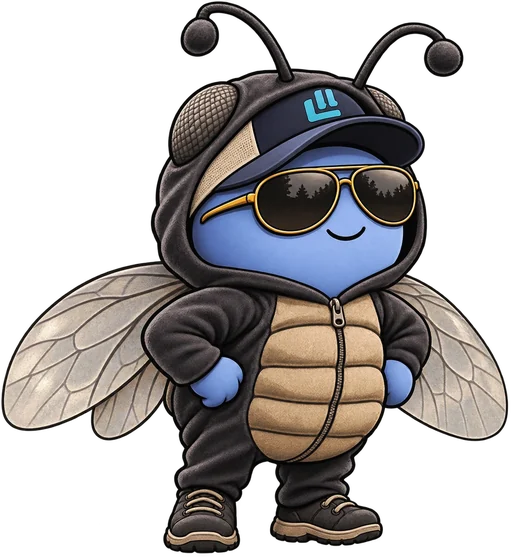
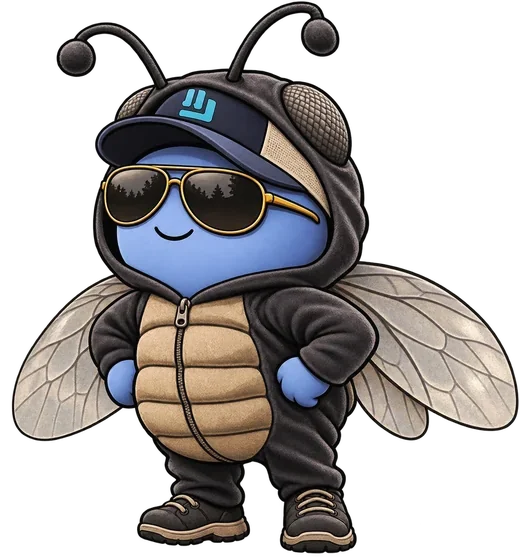
Open Bugs: mirror Merlin

diff --git a/index.html b/index.html
@@ -7,7 +7,7 @@
 <link rel="preconnect" href="https://fonts.googleapis.com">
 <link rel="preconnect" href="https://fonts.gstatic.com" crossorigin>
 <link href="https://fonts.googleapis.com/css2?family=Barlow:wght@400;500;600;700;800&display=swap" rel="stylesheet">
-<link rel="stylesheet" href="style.css?v=1794346731">
+<link rel="stylesheet" href="style.css?v=1794346913">
 <link rel="icon" type="image/png" href="assets/logo-icon.png">
 <script src="https://accounts.google.com/gsi/client" async defer></script>
 </head>
@@ -389,25 +389,25 @@
 </div>
 
 <script src="https://cdn.jsdelivr.net/npm/chart.js@4.4.4/dist/chart.umd.min.js" integrity="sha384-NrKB+u6Ts6AtkIhwPixiKTzgSKNblyhlk0Sohlgar9UHUBzai/sgnNNWWd291xqt" crossorigin="anonymous" defer></script>
-<script src="js/core.js?v=1794346731" defer></script>
-<script src="js/support.js?v=1794346731" defer></script>
-<script src="js/implementation.js?v=1794346731" defer></script>
-<script src="js/call-prep.js?v=1794346731" defer></script>
-<script src="js/scorecards.js?v=1794346731" defer></script>
-<script src="js/firm-assignment.js?v=1794346731" defer></script>
-<script src="js/loop-tracker.js?v=1794346731" defer></script>
-<script src="js/feature-requests.js?v=1794346731" defer></script>
-<script src="js/bugs.js?v=1794346731" defer></script>
-<script src="js/roundup.js?v=1794346731" defer></script>
-<script src="js/resources.js?v=1794346731" defer></script>
-<script src="js/mrr.js?v=1794346731" defer></script>
-<script src="js/exclusions.js?v=1794346731" defer></script>
-<script src="js/calendar.js?v=1794346731" defer></script>
-<script src="js/signals.js?v=1794346731" defer></script>
-<script src="js/partners.js?v=1794346731" defer></script>
-<script src="js/csm.js?v=1794346731" defer></script>
-<script src="js/firm-lookup.js?v=1794346731" defer></script>
-<script src="js/service-portal.js?v=1794346731" defer></script>
-<script src="js/boot.js?v=1794346731" defer></script>
+<script src="js/core.js?v=1794346913" defer></script>
+<script src="js/support.js?v=1794346913" defer></script>
+<script src="js/implementation.js?v=1794346913" defer></script>
+<script src="js/call-prep.js?v=1794346913" defer></script>
+<script src="js/scorecards.js?v=1794346913" defer></script>
+<script src="js/firm-assignment.js?v=1794346913" defer></script>
+<script src="js/loop-tracker.js?v=1794346913" defer></script>
+<script src="js/feature-requests.js?v=1794346913" defer></script>
+<script src="js/bugs.js?v=1794346913" defer></script>
+<script src="js/roundup.js?v=1794346913" defer></script>
+<script src="js/resources.js?v=1794346913" defer></script>
+<script src="js/mrr.js?v=1794346913" defer></script>
+<script src="js/exclusions.js?v=1794346913" defer></script>
+<script src="js/calendar.js?v=1794346913" defer></script>
+<script src="js/signals.js?v=1794346913" defer></script>
+<script src="js/partners.js?v=1794346913" defer></script>
+<script src="js/csm.js?v=1794346913" defer></script>
+<script src="js/firm-lookup.js?v=1794346913" defer></script>
+<script src="js/service-portal.js?v=1794346913" defer></script>
+<script src="js/boot.js?v=1794346913" defer></script>
 </body>
 </html>

diff --git a/js/bugs.js b/js/bugs.js
@@ -124,7 +124,7 @@ function renderBugs() {
       </div>
       <div class="loop-hero-art bug-hero-art">
         <div class="loop-bubble">${prodN ? `${prodN} fix${prodN === 1 ? '' : 'es'} on production — go tell the firm${prodN === 1 ? '' : 's'}!` : sev12 ? `${sev12} big bug${sev12 === 1 ? '' : 's'} on my radar.` : 'No big bugs. Smooth flying!'}</div>
-        <img src="assets/merlin-bug.webp?v=1" alt="Merlin in a bug costume with sunglasses" width="520" height="557">
+        <img src="assets/merlin-bug.webp?v=2" alt="Merlin in a bug costume with sunglasses" width="520" height="557">
       </div>
     </section>
     <div class="bug-states" role="tablist" aria-label="Workflow state">
